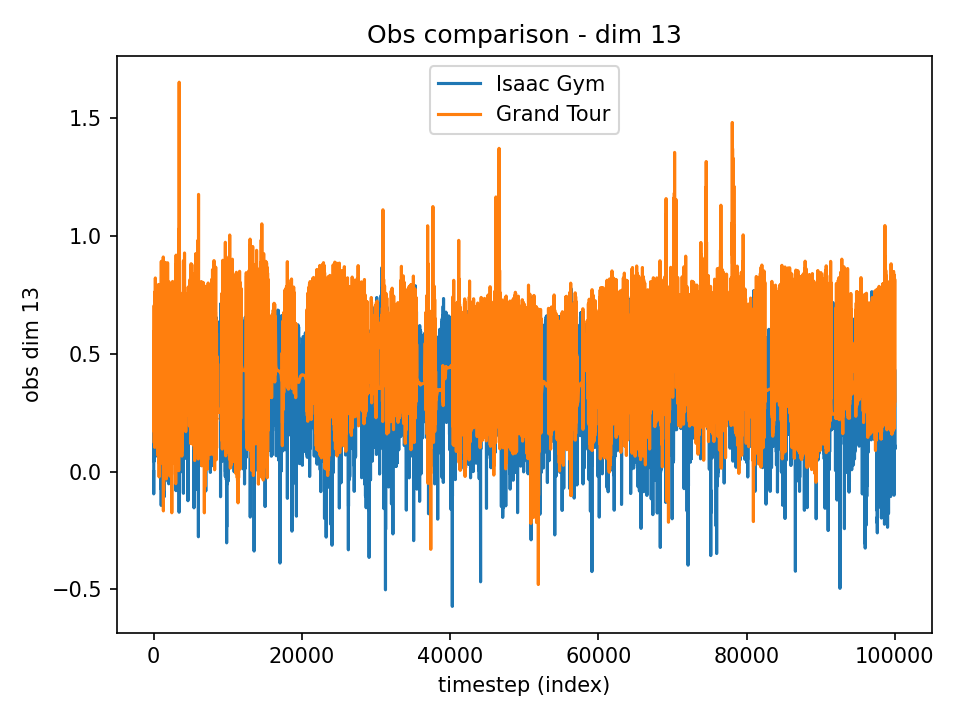
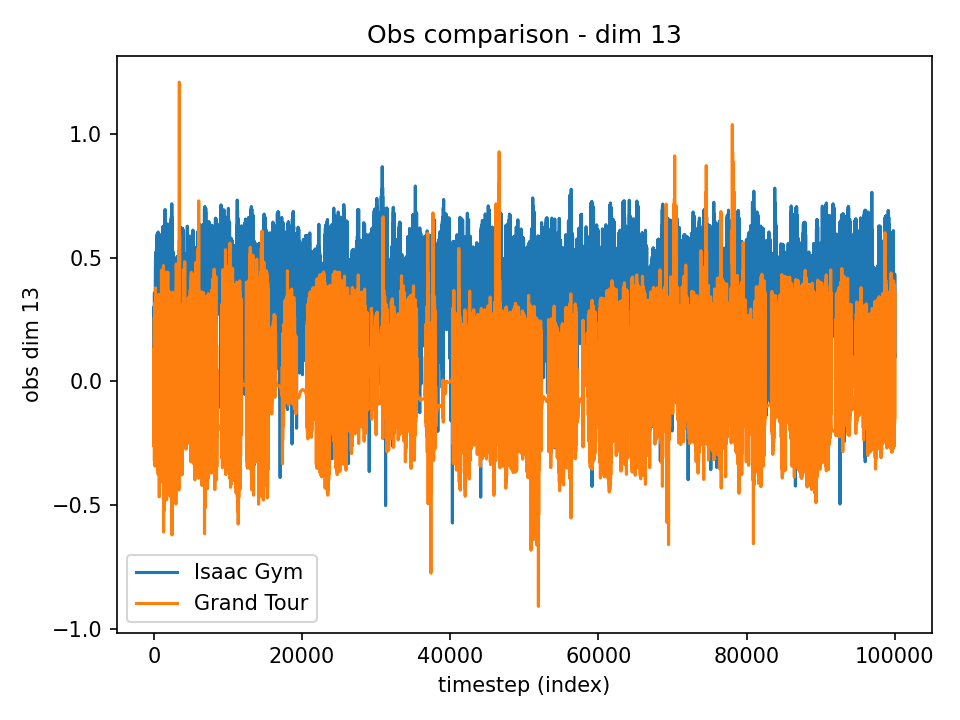
experiments with gt default pos

diff --git a/eval_isaac_v2.py b/eval_isaac_v2.py
@@ -143,7 +143,7 @@ class OnlineEval:
         env_cfg = self.env_cfg
 
         obs = env.get_observations()
-        #obs = obs[:, :-12]  # Remove last 12 dimensions (prev_actions)
+        obs = obs[:, :-12]  # Remove last 12 dimensions (prev_actions)
         
         logger = Logger(env.dt) # note env.dt = 0.0199999 
         robot_index = 0  # which robot is used for logging
@@ -182,7 +182,7 @@ class OnlineEval:
         for i in range(num_repetitions * int(max_episode_length)+2):
         #for i in tqdm(range(num_repetitions * int(max_episode_length)+2),desc="Online IG Eval"):
 
-            obs = unscale_observations(obs, device=device)
+            #obs = unscale_observations(obs, device=device)
 
             # Normalize observations before feeding to actor
             if self.normalize:
@@ -206,15 +206,15 @@ class OnlineEval:
             # Convert actions from absolute positions (GrandTour format) to offsets (Isaac Gym format)
             # Policy outputs absolute positions, but Isaac Gym expects normalized offsets
             actions_np = actions.detach().cpu().numpy()
-            actions_isaac = make_actions_compatible(actions_np)
-            actions_isaac = torch.tensor(actions_isaac, device=actions.device, dtype=actions.dtype)
+            #actions_isaac = make_actions_compatible(actions_np)
+            #actions_isaac = torch.tensor(actions_isaac, device=actions.device, dtype=actions.dtype)
             
             # Store actions for per-dimension analysis (from policy output, before conversion)
             with torch.no_grad():
                 actions_all_list.append(actions_np)
             
-            obs, _, rews, dones, infos = env.step(actions_isaac.detach())
-            #obs = obs[:, :-12]  # Remove last 12 dimensions (prev_actions)
+            obs, _, rews, dones, infos = env.step(actions.detach())
+            obs = obs[:, :-12]  # Remove last 12 dimensions (prev_actions)
 
             """
             #################TESTING #########################
